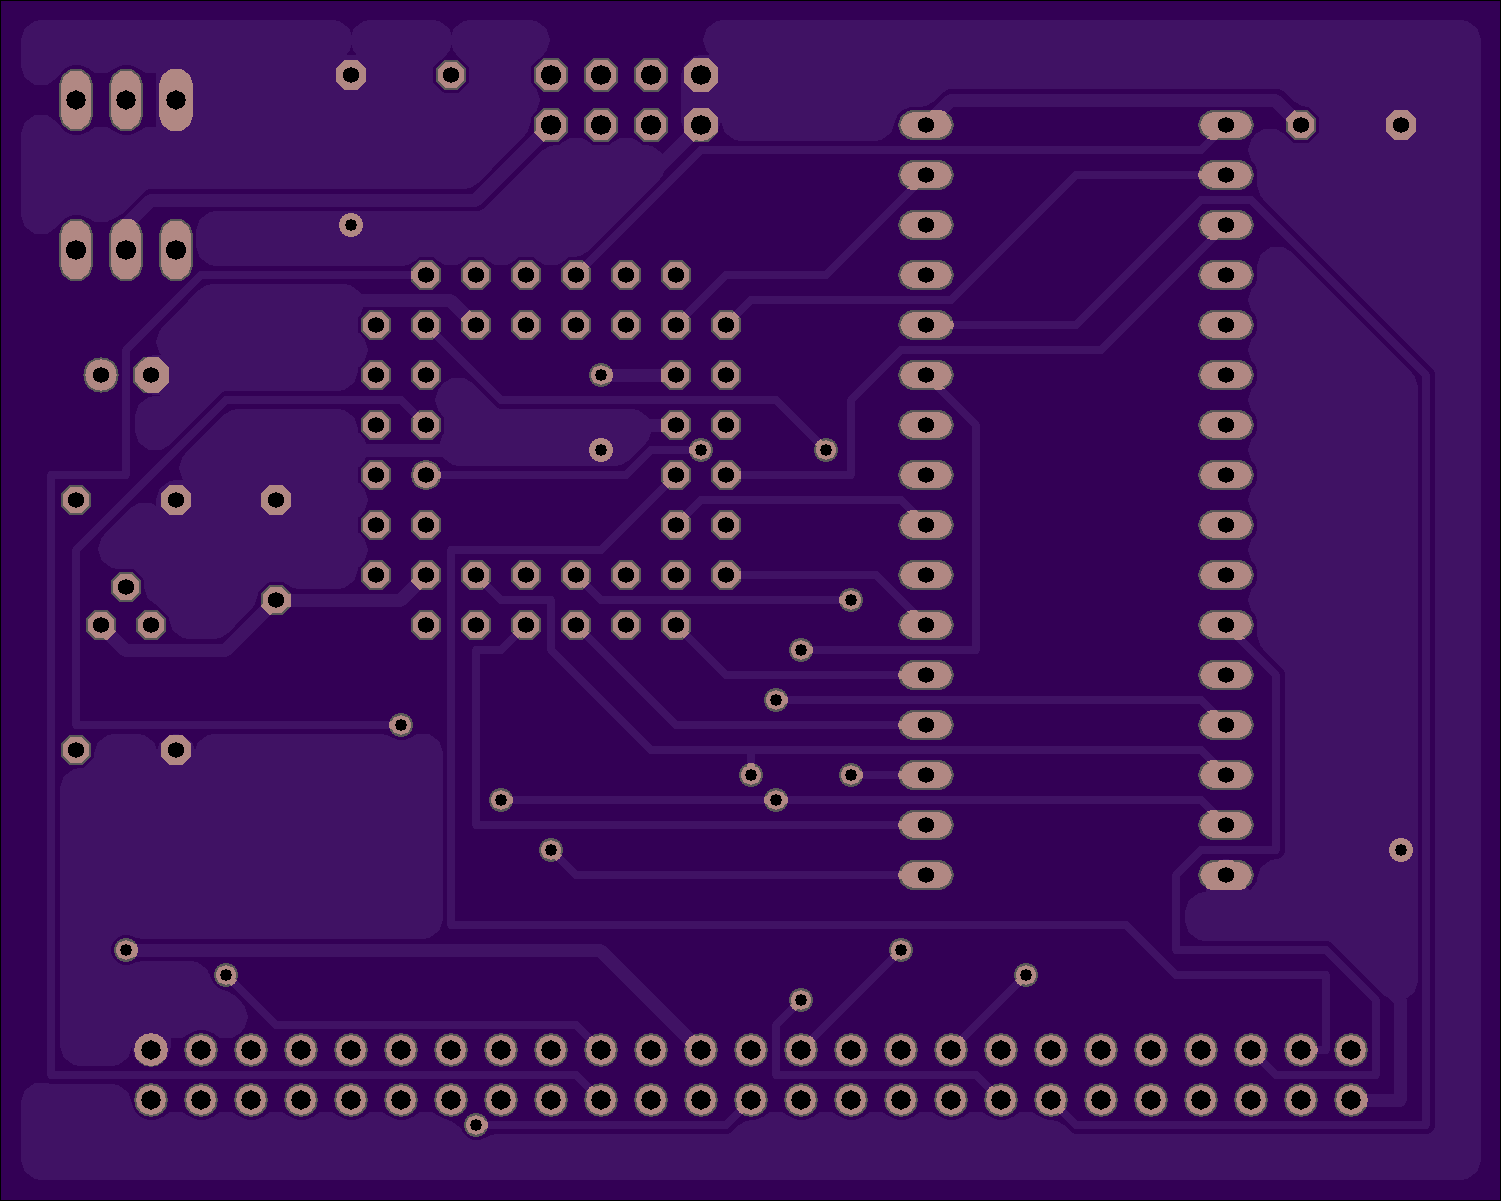
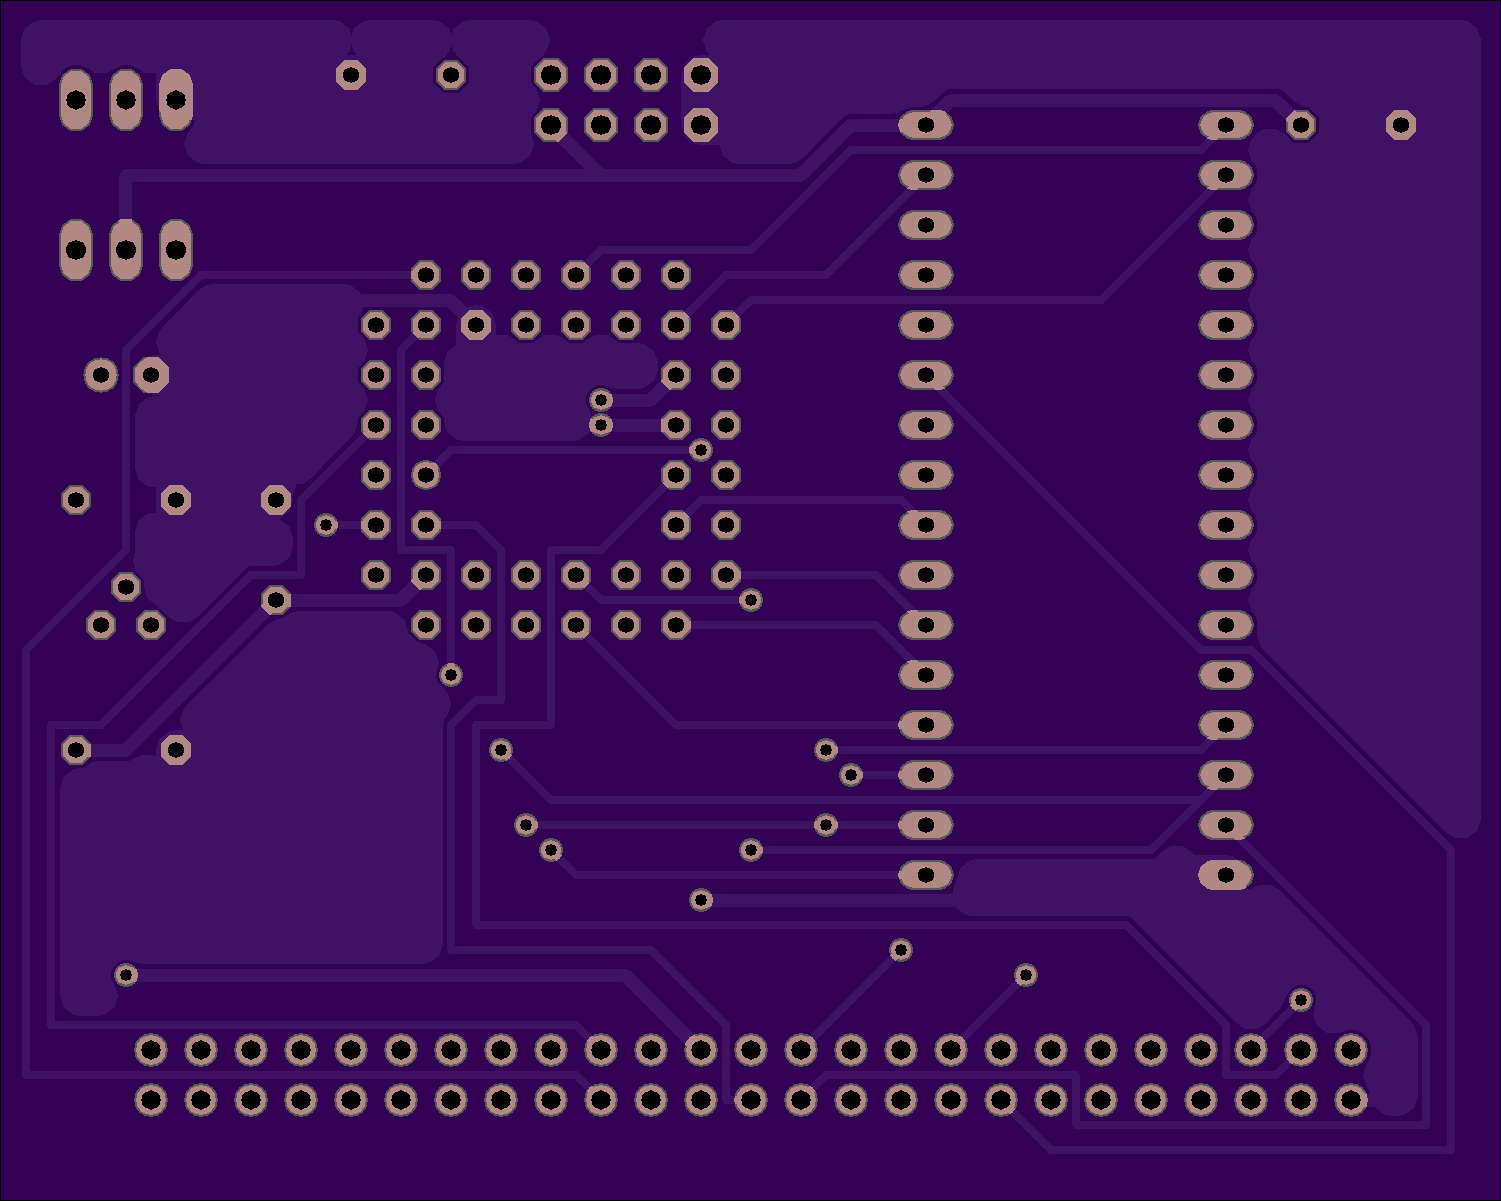
Revert SRAM to 5V rail: ViH cannot exceed Vcc+0.3V

diff --git a/README.md b/README.md
@@ -10,5 +10,9 @@ The second implemention will replace the Xilinx CPLD with 8 or 9 74 series compo
 Unless otherwise noted, all files and the project are copyright by the contributors and licensed under the GPL. Contact us by raising an [issue on GitHub](https://github.com/revaldinho/cpc_ram_expansion/issues)
 
 
-                            
+## Example PCB for CPLD Version
+
+<img src="https://github.com/revaldinho/cpc_ram_expansion/blob/master/img/CPC_512K_RAM_Eagle_v1.00.png" alt="V1.00 PCB Image from Eagle" width="512">
+
+
 <img src="https://github.com/revaldinho/cpc_ram_expansion/blob/master/img/CPC_512K_RAM_top_v1.00.png" alt="V1.00 PCB Image" width="512">
